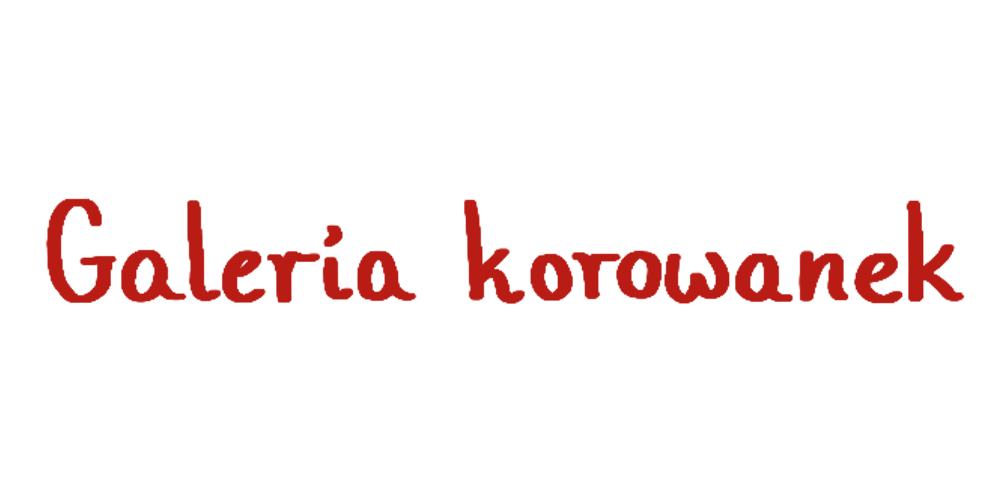
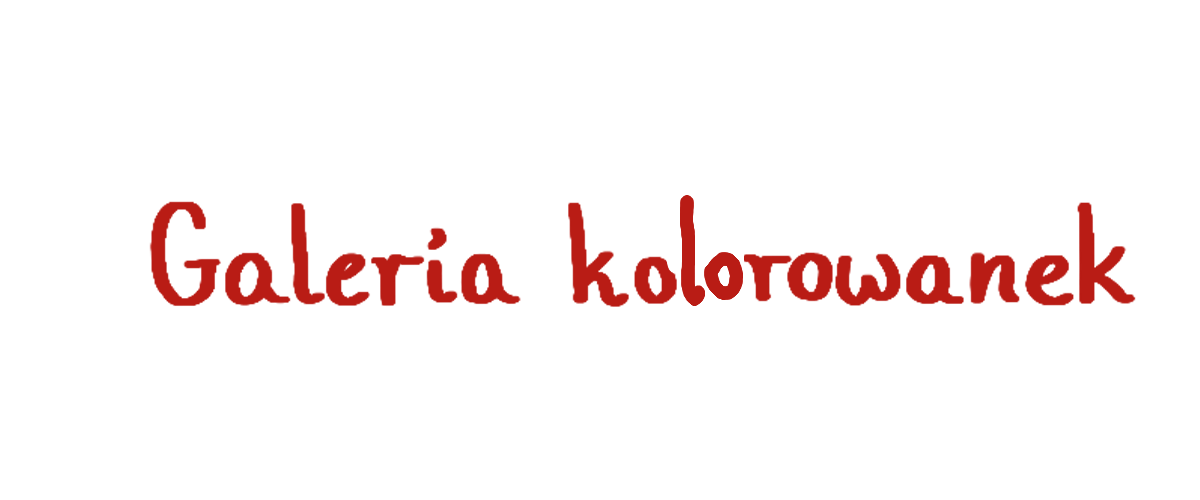
Poprawka grafiki galerii kolorowanek

Changed region(s): [[0.031, 0.39, 0.434, 0.63], [0.465, 0.39, 0.961, 0.63]]

diff --git a/Website/style/index.css b/Website/style/index.css
@@ -397,7 +397,7 @@ main {
 
 .partner-ship__shifter {
 	display: flex;
-	width: 50%;
+	width: 65%;
 	padding: 10px 0;
 	overflow: auto;
 }
